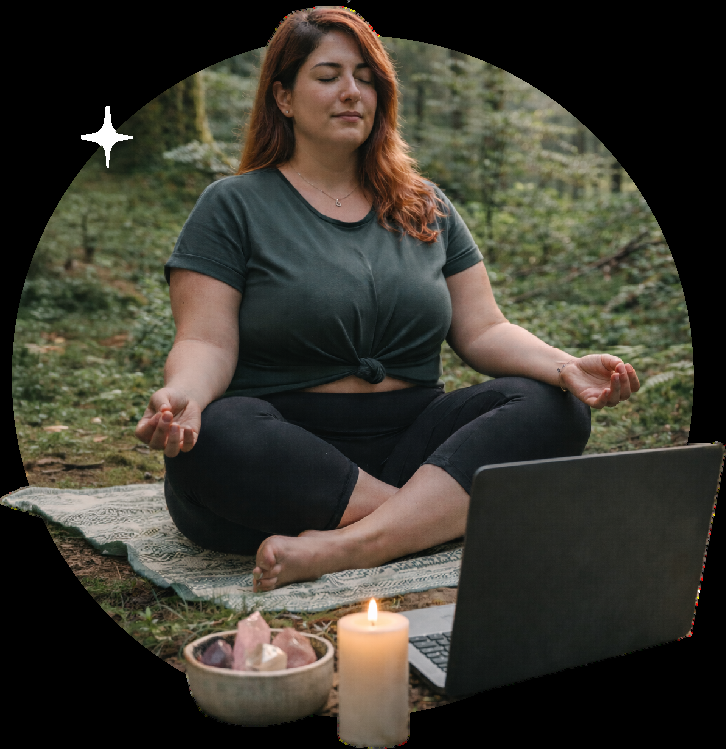
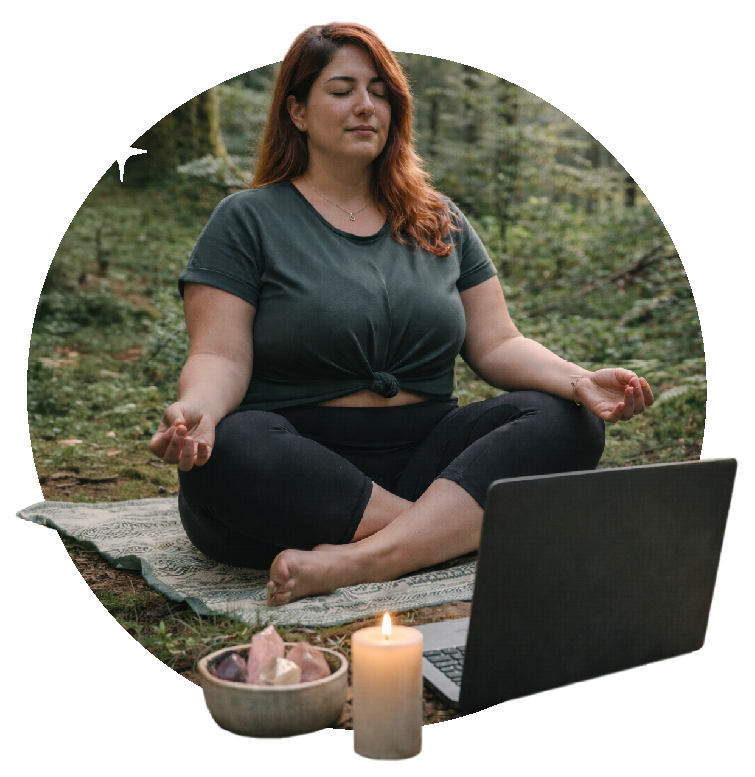
Landing MVP

diff --git a/components/landing/Landing.tsx b/components/landing/Landing.tsx
@@ -766,7 +766,7 @@ function LandingStyles() {
           ~50vh) y el borde inferior de la pantalla. ~22vh desde abajo
           ≈ punto medio de esa franja.
         */
-        bottom: clamp(7rem, 22vh, 15rem);
+        bottom: clamp(3.5rem, 11vh, 7.5rem);
         left: 50%;
         transform: translateX(-50%);
         white-space: nowrap;
@@ -1024,7 +1024,10 @@ function LandingStyles() {
         width: 88%;
         aspect-ratio: 1;
         border-radius: 50%;
-        overflow: hidden;
+        /* overflow visible: las PNGs ya tienen el recorte circular horneado con
+           fondo transparente, así que pelo, cabeza y estrellas que sobresalen
+           del círculo se ven fuera de él en lugar de ser cortados */
+        overflow: visible;
         background: var(--color-rose);
         margin-top: .5rem;
         box-shadow: none !important;
@@ -1038,12 +1041,7 @@ function LandingStyles() {
         display: block;
         box-shadow: none !important;
         filter: none !important;
-      }
-      .svc-photo .card-img {
-        width: 100%;
-        height: 100%;
-        object-fit: cover;
-        display: block;
+        transform: scale(1.18);  /* zoom suave, recortado por el overflow:hidden del círculo */
       }
 
       /* ── BOTÓN (LABEL) ─────────────────────────────────────── */